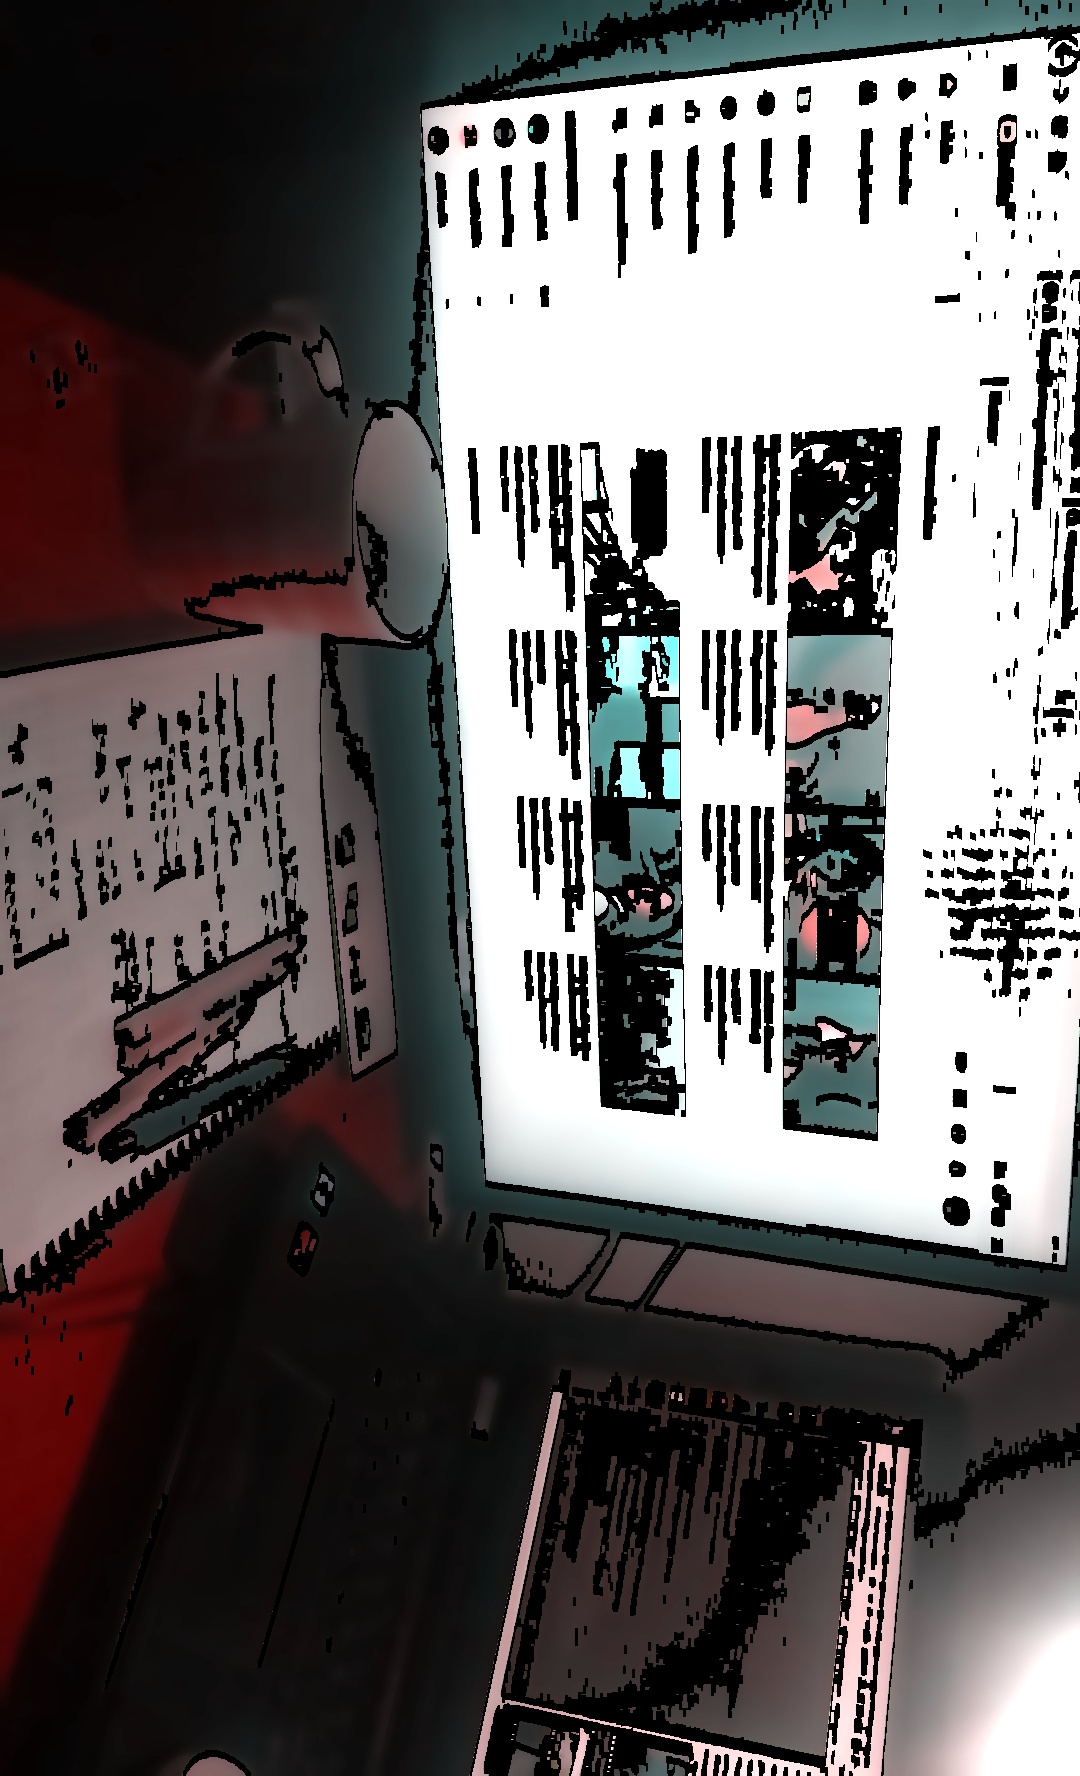
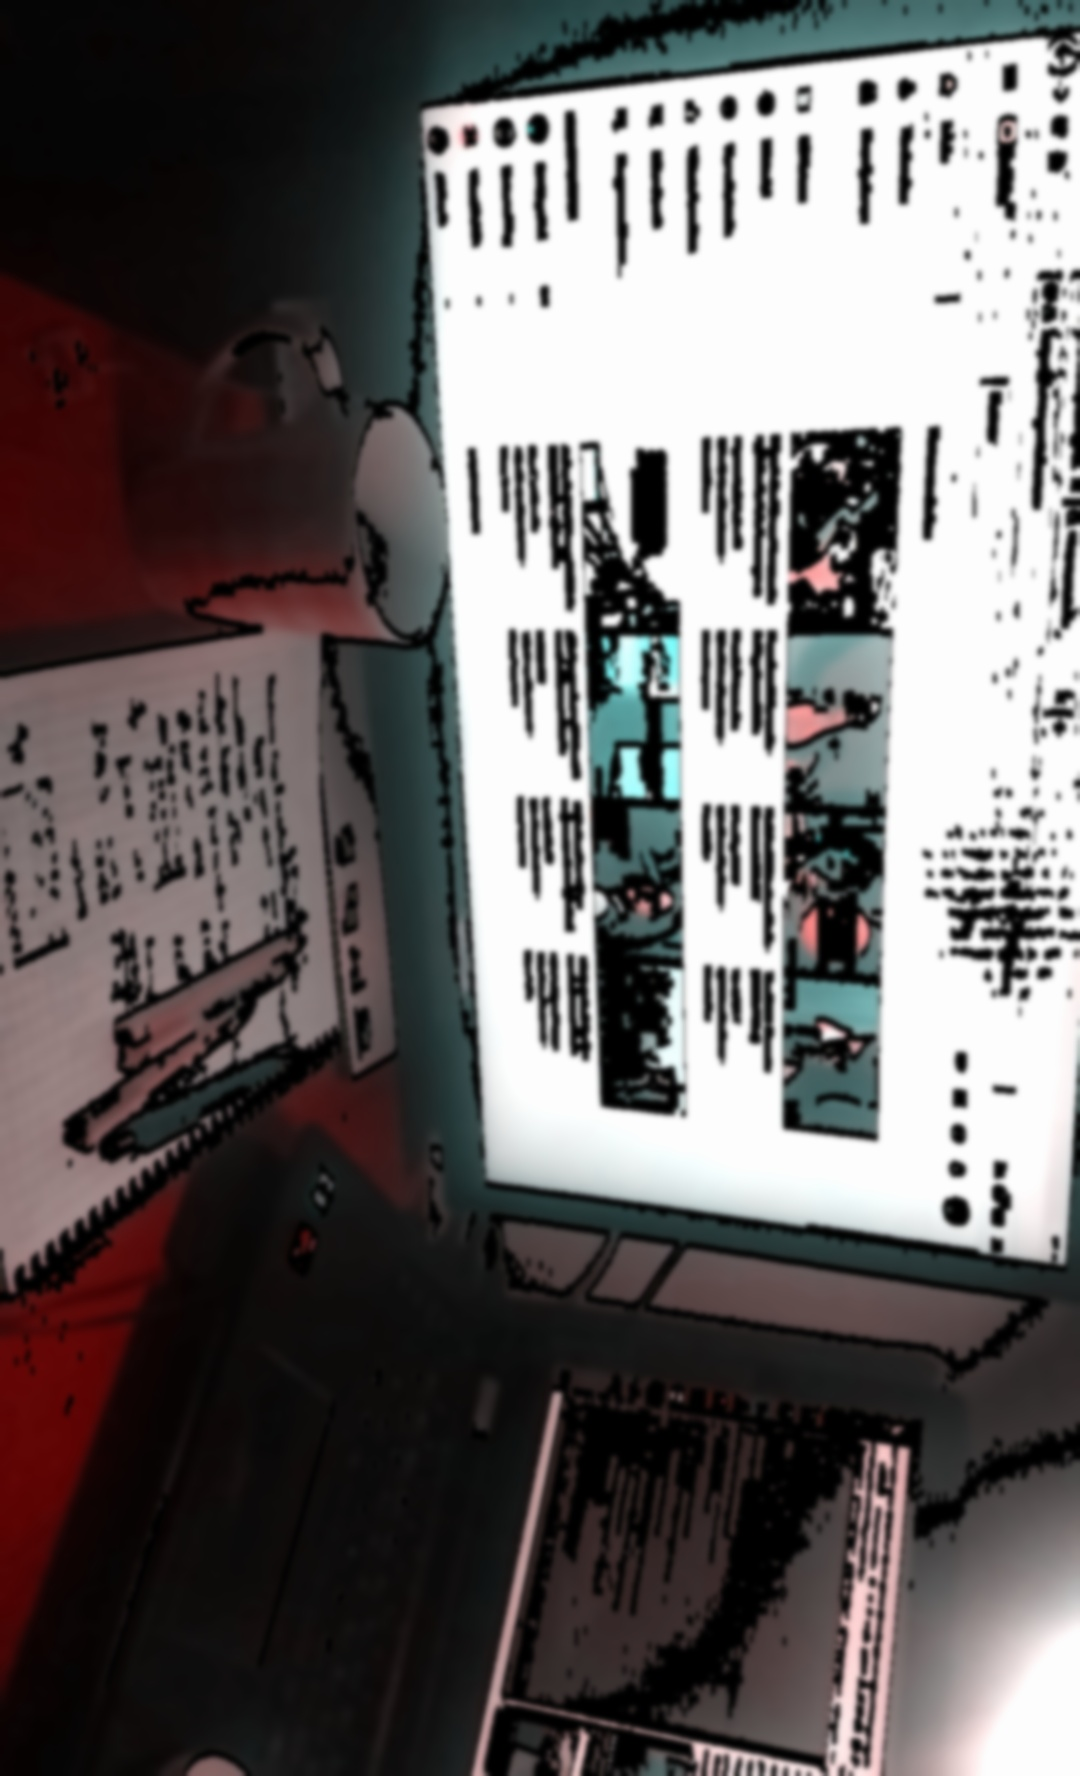
Gaussian blur filter

diff --git a/fun_scripts/cartoon/Filter1.py b/fun_scripts/cartoon/Filter1.py
@@ -57,7 +57,7 @@ erosion = cv.erode(dilation,kernel_v,iterations = 1)
 r_image=cv.merge([np.zeros((np.shape(edges_image)),np.uint8),original_image[:,:,0],np.zeros((np.shape(edges_image)),np.uint8)])
 
 #8. Blur bilateral filters
-kernel_size=21
+kernel_size=15
 final_image_aux=cv.bilateralFilter(original_image,kernel_size,50,50)
 final_image_r=cv.bilateralFilter(r_image,kernel_size,25,25)
 
@@ -73,8 +73,10 @@ final_image_0=cv.LUT(cv.subtract(final_image_aux[:,:,0],erosion), lookUpTable_ad
 final_image_1=cv.LUT(cv.subtract(final_image_r[:,:,1],erosion), lookUpTable_add)
 final_image_2=cv.LUT(cv.subtract(final_image_aux[:,:,2],erosion), lookUpTable_add)
 
-#8. Add color channels in a single image
-final_image=cv.merge([final_image_0,final_image_1,final_image_2])
+#8. Add color channels in a single image and apply a smooth Gaussian filter
+final_image=cv.GaussianBlur(cv.merge([final_image_0,final_image_1,final_image_2]),(kernel_size,kernel_size),0)
+
+#TODO: Shadows and magazine style
 
 #Show edges and final filtered image
 plt.figure()
